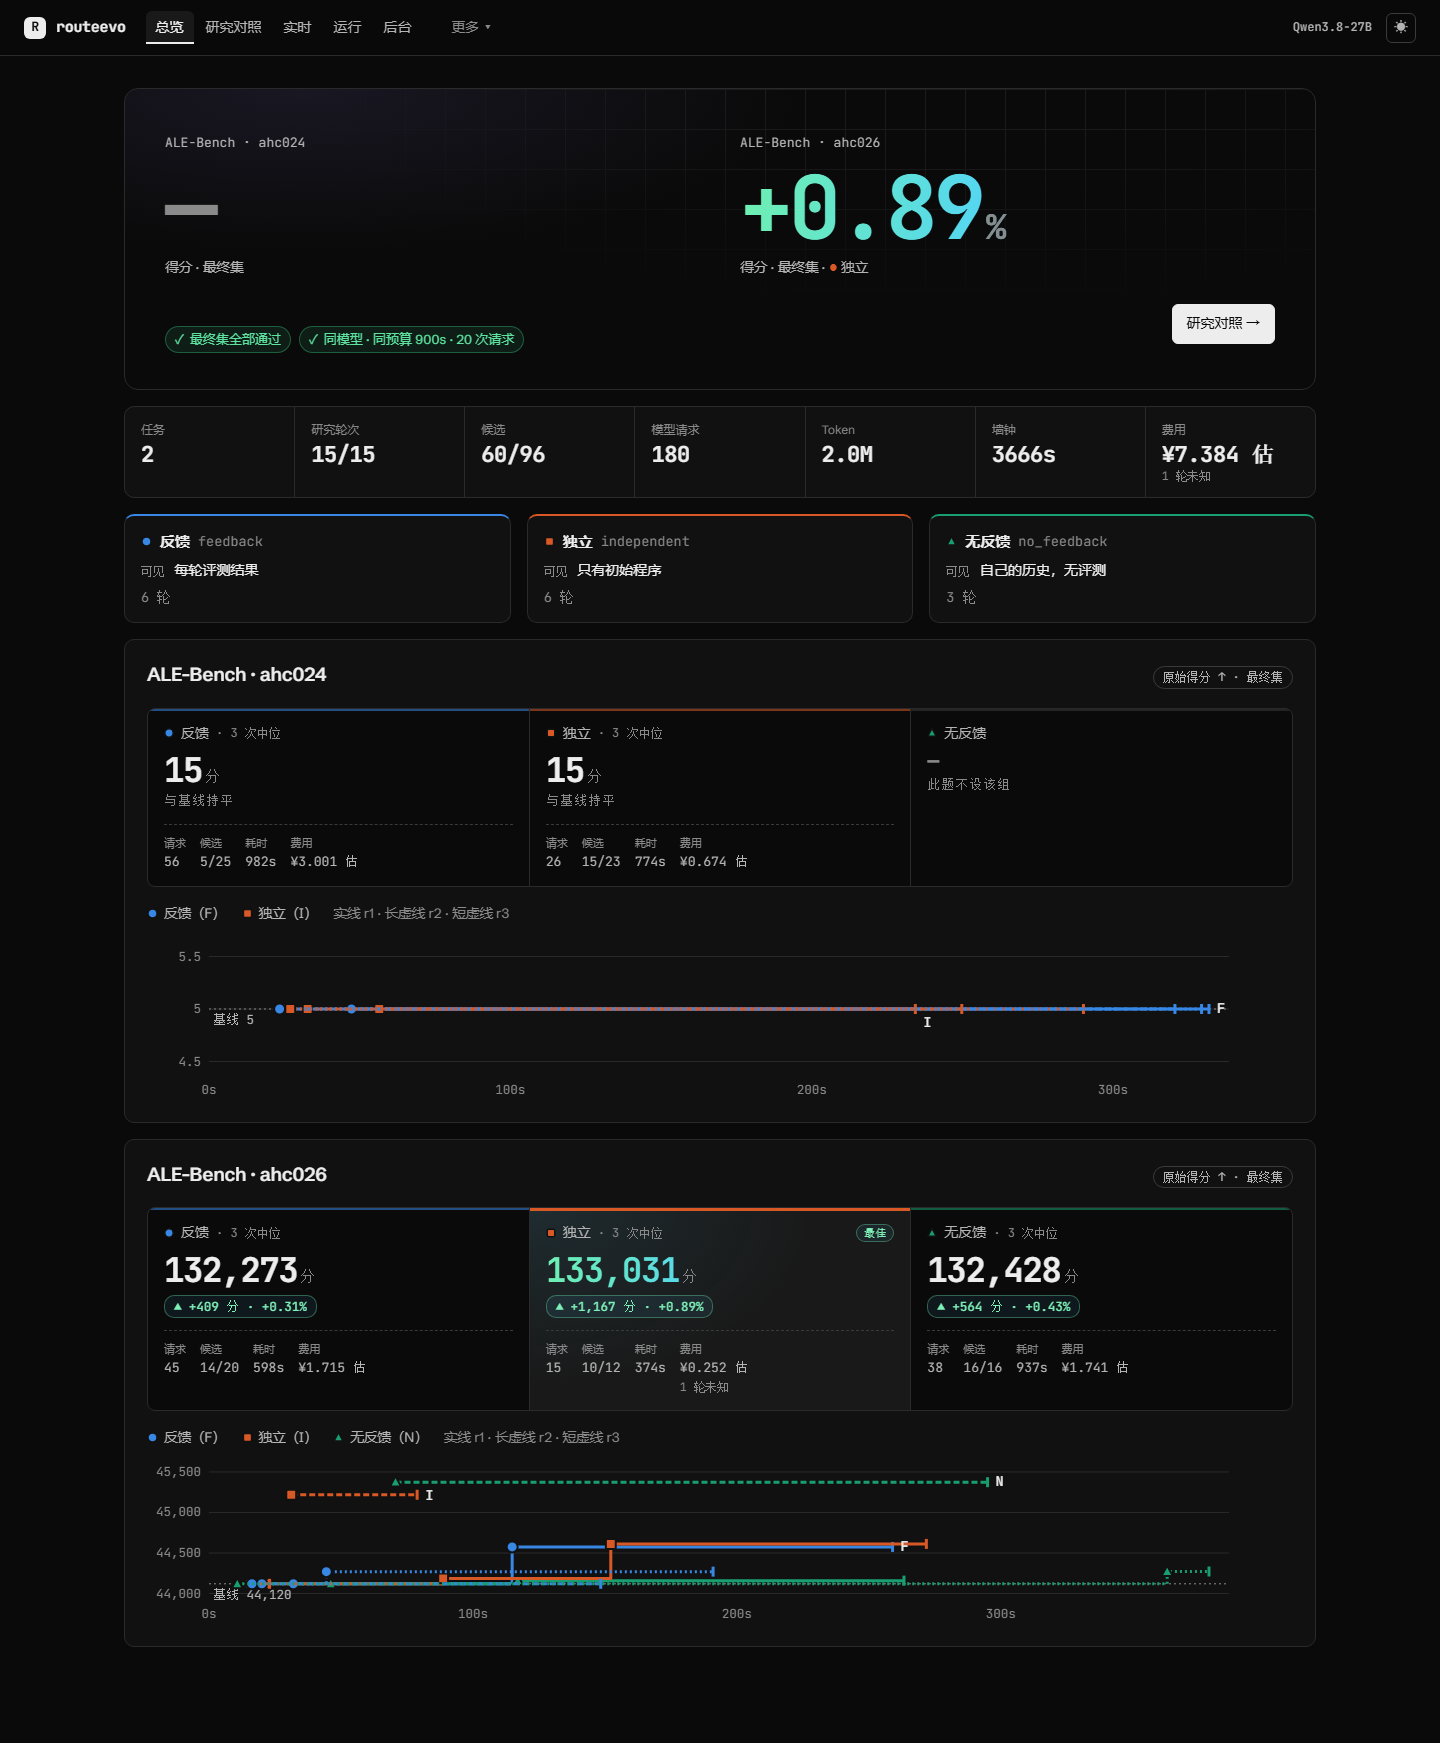
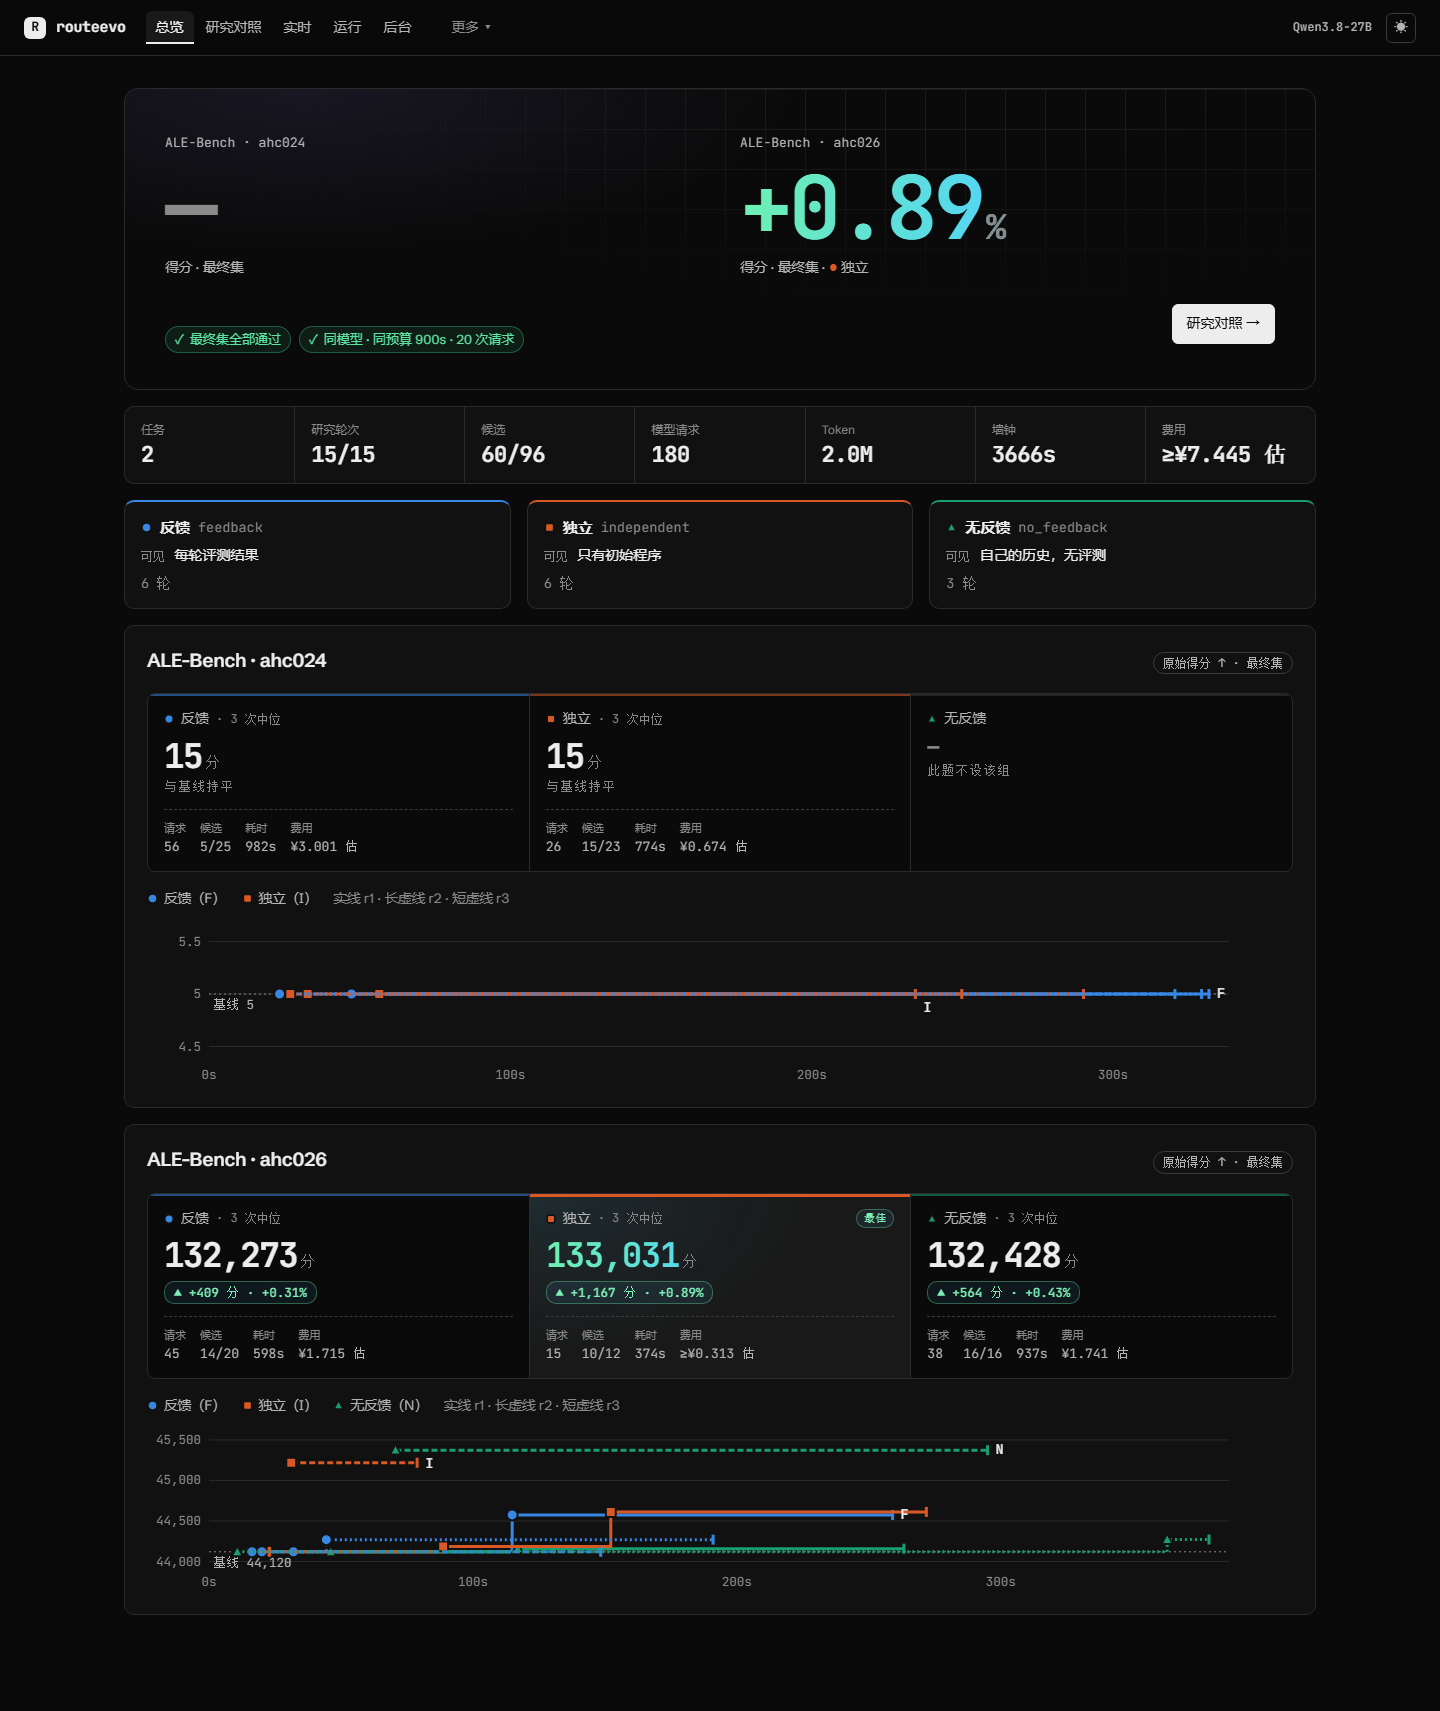
frontend: price the known part of runs with unknown usage
A run whose cost is unknown because some calls lack usage (ALE formal slot
10, HTTP 400) now contributes the priced part as a lower bound instead of
counting as fully unknown. The ALE batch reads "≥¥7.445 估", matching the
known subtotal CNY 7.445133 reported in #5; the total stays unknown.

diff --git a/frontend/src/research.ts b/frontend/src/research.ts
@@ -214,6 +214,10 @@ export function costOf(r: RawRun, pricing: RawPricing | null | undefined): Cost 
   if (c) {
     if (c.status === 'no_model_calls') return { kind: 'none', amount: c.amount ?? 0, currency: c.currency ?? null, note: null }
     if (c.amount != null && c.currency) return { kind: c.status === 'billed' ? 'billed' : 'estimate', amount: c.amount, currency: c.currency, note: c.note ?? null }
+    // Some calls have no usage: the total stays unknown, but the priced part is a known lower bound.
+    const u = r.usage
+    const known = c.currency && pricing?.currency === c.currency ? priceOf(pricing, u?.input_tokens, u?.cached_input_tokens, u?.output_tokens) : null
+    if (known != null && c.currency) return { kind: 'partial', amount: null, currency: c.currency, note: '部分调用用量未知', parts: [{ currency: c.currency, amount: null, known }] }
     return { kind: 'unknown', amount: null, currency: c.currency ?? null, note: c.note ?? null }
   }
   const e = r.estimated_cost

diff --git a/frontend/scripts/check-research.ts b/frontend/scripts/check-research.ts
@@ -175,11 +175,14 @@ check('ALE formal: scoreboards report final scores against the final-set c0', ()
   assert.ok(t024.runs.every((r) => !resultOf(t024, r).improved))
 })
 
-check('ALE formal: an API-failed run keeps its passing final and an unknown cost', () => {
+check('ALE formal: an API-failed run keeps its passing final; the total is a lower bound of CNY 7.445133', () => {
   const b = normalize(ale)
   const r10 = b.runs.find((r) => r.seq === 10)!
-  assert.deepEqual([r10.state, r10.final.state, r10.final.value, r10.cost.kind], ['failed', 'passed', 135088, 'unknown'])
-  assert.equal(costTotals(b.runs.map((r) => r.cost)).unknown, 1)
+  assert.deepEqual([r10.state, r10.final.state, r10.final.value, r10.cost.kind], ['failed', 'passed', 135088, 'partial'])
+  const t = costTotals(b.runs.map((r) => r.cost))
+  assert.equal(t.unknown, 0)
+  assert.ok(t.partial.has('CNY'))
+  assert.equal(t.byCurrency.CNY.toFixed(6), '7.445133')
 })
 
 console.log(`${n} checks passed`)
